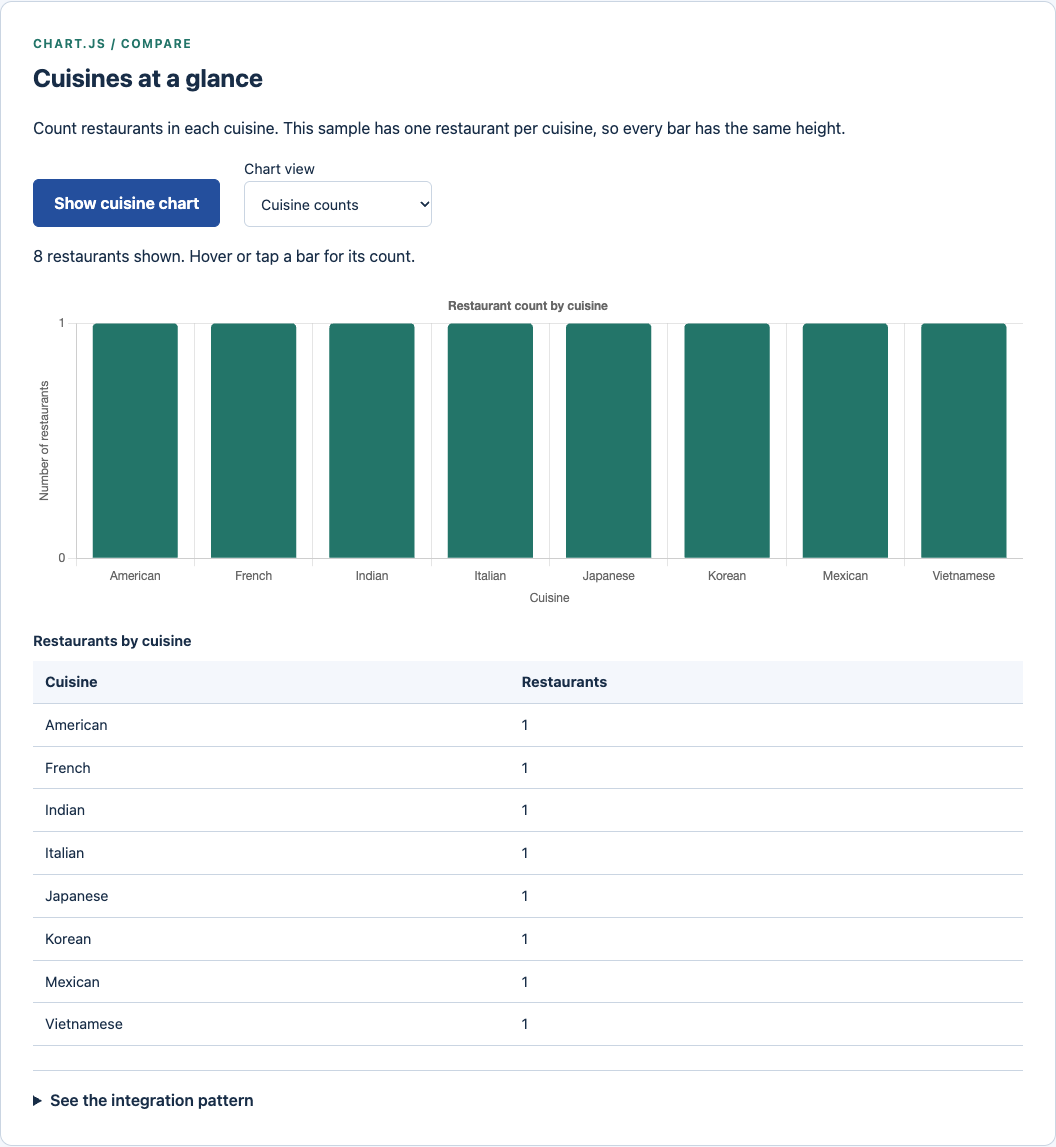
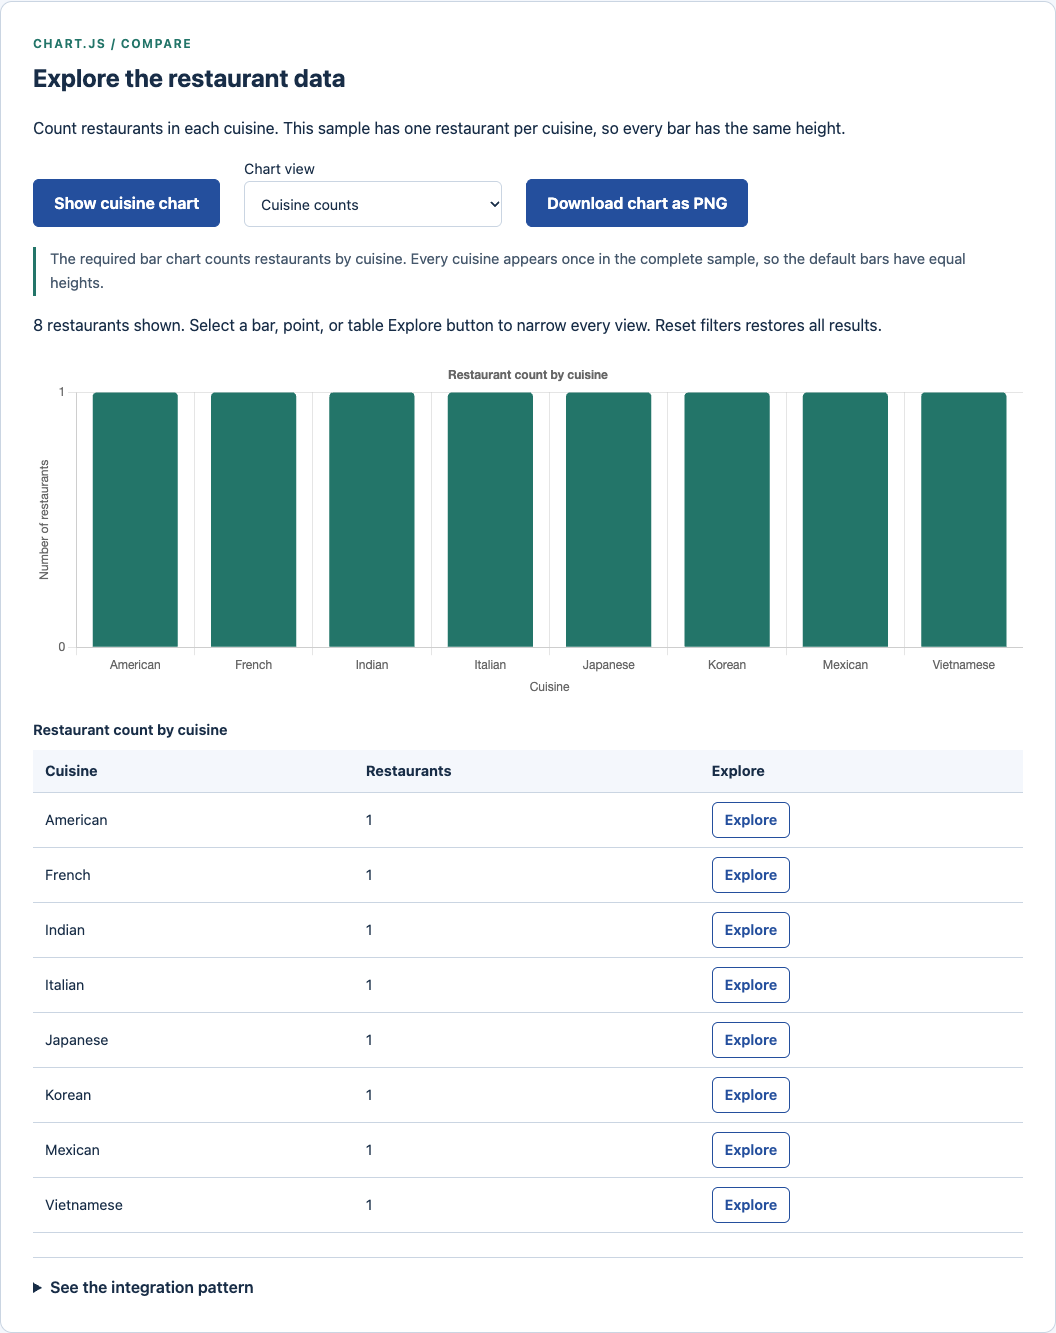
Document advanced chart views and class requirement coverage

diff --git a/README.md b/README.md
@@ -38,8 +38,9 @@ The extensions turn isolated demos into a small restaurant exploration workflow.
 | Extension | What someone can do | What the code demonstrates |
 | --- | --- | --- |
 | **Shared exploration** | Search names, cuisines, and neighborhoods; combine cuisine, price, and rating filters | One pure selection function feeds all three views instead of maintaining conflicting copies |
-| **Rating comparison** | Switch from the required cuisine counts to restaurant ratings | Numeric scales bounded at five, exact values in a table, and horizontal bars for readable names |
+| **Chart analysis** | Switch between cuisine counts, restaurant ratings, neighborhood cuisine mix, and price tiers versus ratings | Stacked datasets, scatter coordinates, precise axes, custom plugin hooks, and exact values in tables |
 | **Three choice shortlist** | Compare cuisine, rating, price, neighborhood, and hours side by side | Selection state independent of filters, a clear capacity limit, native toggle buttons, and semantic table headers |
+| **Chart exploration and image export** | Select a chart bar or point to narrow all views, or download the current chart as a PNG | Event handling, keyboard equivalent table actions, mean reference lines, canvas export, and a white image background |
 | **Direct map inspection** | Open a specific restaurant's popup from its text entry | Matching records to markers by stable IDs rather than relying on their order or screen position |
 | **Filtered downloads** | Export only matching records as JSON | Source records preserved in the export, empty result protection, and cleanup of temporary browser URLs |
 | **Empty result recovery** | Reset filters after a combination finds no matches | Clear feedback and coordinated empty states across the chart, map, cards, and download control |
@@ -51,7 +52,7 @@ The extensions turn isolated demos into a small restaurant exploration workflow.
 <details>
 <summary><strong>See the additional rating chart and mobile explorer</strong></summary>
 <br>
-<img src="docs/assets/ratings.png" alt="Horizontal rating bars for the eight sample restaurants, sorted by rating on a zero to five scale, with an exact values table." width="100%">
+<img src="docs/assets/ratings.png" alt="Horizontal rating bars for the eight sample restaurants, on a zero to five scale with a matching-sample mean reference, with an exact values table." width="100%">
 <p align="center"><img src="docs/assets/explorer-mobile.png" alt="Mobile shared search and filter form with controls stacked vertically." width="320"> <img src="docs/assets/ratings-mobile.png" alt="Mobile horizontal rating chart with readable restaurant labels and the exact values table." width="320"></p>
 </details>
 
@@ -61,9 +62,36 @@ The shortlist is temporary page state. It survives filter changes and data refre
 
 | Library | Data preparation | Working interaction | Fallback |
 | --- | --- | --- | --- |
-| **Chart.js** | Count matching records by cuisine, or use each matching restaurant’s rating | Required cuisine bar chart plus an optional horizontal rating chart; filter changes update the requested chart | Exact counts or ratings in a semantic table |
+| **Chart.js** | Aggregate cuisine and neighborhood counts, or plot the original ratings and ordered price tiers | Required cuisine bar chart plus horizontal ratings, stacked neighborhood counts, and a price-tier scatter plot; chart selections filter every view | Exact counts or ratings in a semantic table |
 | **Leaflet** | Use shared filter results; derive stable illustrative positions from the supplied neighborhoods | Markers with safe popups, shared filtering, zoom controls, and direct list actions | Filtered text list of restaurant names, cuisines, neighborhoods, and ratings |
 | **GSAP** | Create a card for each matching record, with all eight shown by default | Staggered opacity, position, and scale entrance; replay cancels the earlier animation | Static cards when GSAP fails or reduced motion is enabled |
+
+### Chart.js analysis
+
+The default remains the required **bar chart counting restaurants by cuisine**. Three additional views answer different questions using the same sample data:
+
+| View | Question | Integration details |
+| --- | --- | --- |
+| Cuisine counts | How many matching restaurants serve each cuisine? | `type: 'bar'`, categorical labels, and integer counts |
+| Restaurant ratings | How do individual sample ratings compare? | Horizontal bars, a zero to five rating scale, and a dashed matching-sample mean |
+| Cuisine mix by neighborhood | Which cuisines appear in each sample neighborhood? | One dataset per cuisine, stacked counts, and interactive legend visibility |
+| Price tier vs. rating | Where do the sample restaurants fall across price tiers and ratings? | Scatter points colored by neighborhood, named tooltips, categorical price labels, and a mean-rating reference |
+
+Select a bar or point to narrow the shared results. Each exact-value table also includes native **Explore** buttons, so this workflow does not depend on pointer interaction or a working canvas. A stacked segment selects both its neighborhood and cuisine; a neighborhood table action selects the neighborhood. After exploration, focus moves to the chart feedback. **Reset filters** restores the complete dataset.
+
+The legend changes visible chart series without changing the underlying filters or exact-value table. The reference line always represents the matching sample records. The complete sample averages **4.36 / 5**; filtering recalculates the mean. Hiding a legend series does not redefine that average.
+
+**Download chart as PNG** exports the completed current chart with a white background. It preserves current filter and legend visibility. The action stays disabled until a chart exists, for empty results, or when Chart.js fails. JSON result downloads remain a separate way to inspect the original records.
+
+Price symbols are ordered tiers, not measured dollar amounts. The scatter plot preserves exact values without jitter or a trend line. Overlapping points can be inspected through the named tooltips and exact-value table. Eight course sample records do not establish a price-quality relationship or a general neighborhood trend.
+
+<details>
+<summary><strong>See the advanced Chart.js views</strong></summary>
+<br>
+<img src="docs/assets/neighborhood-chart.png" alt="Stacked cuisine counts for four sample neighborhoods, with a cuisine legend and an exact count table." width="100%">
+<img src="docs/assets/price-chart.png" alt="Scatter plot of ordered price tiers and exact restaurant ratings, with neighborhood colors and a matching-sample mean reference." width="100%">
+<p align="center"><img src="docs/assets/neighborhood-chart-mobile.png" alt="Mobile stacked neighborhood chart with its complete legend and a horizontally scrollable exact-value table." width="320"> <img src="docs/assets/price-chart-mobile.png" alt="Mobile price-tier scatter plot and restaurant values table." width="320"></p>
+</details>
 
 <details open>
 <summary><strong>Cuisine chart</strong></summary>
@@ -136,8 +164,8 @@ BROWSER_CHANNEL=chrome npm test
 
 | Check | Local result | Scope |
 | --- | --- | --- |
-| JavaScript syntax and data checks | PASS | Repeated cuisines, total count, empty input, duplicate IDs, missing fields, invalid ratings, stable sample positions, combined filter criteria, sorting, and preservation of the original array |
-| Browser regression suite | PASS | Fifteen scenarios in installed Chrome, including all three demos, repeat actions, popups, filtering, failed requests, invalid responses, timeout, blocked scripts and tiles, initialization errors, literal text rendering, shared filters, empty results, comparison limits, exact exports, and direct map actions |
+| JavaScript syntax and data checks | PASS | Repeated cuisines, total count, empty input, duplicate IDs, missing fields, invalid ratings, stable sample positions, combined filter criteria, sorting, and preservation of the original array, stacked group totals, scatter coordinates, chart targets, and matching-sample means |
+| Browser regression suite | PASS | Twenty scenarios in installed Chrome, including all three demos, repeat actions, popups, filtering, failed requests, invalid responses, timeout, blocked scripts and tiles, initialization errors, literal text rendering, shared filters, empty results, comparison limits, exact exports, direct map actions, stacked totals, legend visibility, canvas exploration, keyboard equivalents, price-tier axes, and PNG image output |
 | Reduced motion | PASS in automated checks | Static cards and disabled Chart.js animation; this does not establish full motion accessibility |
 | Layout and keyboard | PASS in automated checks | No horizontal page overflow at 320, 390, and 1440 pixels; keyboard activation of the load button |
 | Screenshot inspection | PASS for captured states | Desktop and mobile explorer, comparison, chart, map, and card screenshots are actual browser captures |
@@ -155,7 +183,7 @@ The suite starts and stops its own server on port 8768. Real CDN availability re
 | **Leaflet** | Verified locations and spatial relationships affect a decision | Interactive geographic display and filtering | Coordinates, tile availability, attribution, and map accessibility require extra work |
 | **GSAP** | A coordinated transition explains a state change that CSS cannot easily support | Timing, stagger, easing, and animation control | Motion must stay optional; the library should solve a real interaction need |
 
-**For this dataset, Chart.js is the strongest starting point.** Cuisine and rating already exist, while a reliable Leaflet implementation would first need verified coordinates. The added rating chart compares individual restaurants on the same zero to five scale. The result summary also reports the average of matching records. With only one record per cuisine, category averages would still represent individual sample restaurants, not a broader market trend.
+**For this dataset, Chart.js is the strongest starting point.** Cuisine and rating already exist, while a reliable Leaflet implementation would first need verified coordinates. The added rating chart compares individual restaurants on the same zero to five scale. Neighborhood stacks count sample records, and the scatter plot compares ordered price tiers with ratings without fitting a trend. The result summary also reports the average of matching records. With only one record per cuisine, category averages would still represent individual sample restaurants, not a broader market trend.
 
 The final Project 2 choice should depend on Assignment 2's actual dataset and user task. This tutorial does not modify that separate assignment. Before choosing, identify the question the library answers, check the required data, build a small prototype, and test a failed library load. Use CSS for simple transitions before adding GSAP.
 
@@ -179,6 +207,7 @@ externalLibraries/
 │   ├── script.js              # shared exploration, comparison, and library views
 │   ├── tutorial-support.js    # loading, status checks, and safe cards
 │   ├── data.js                # validation, filtering, counts, sample positions
+│   ├── chart-data.js          # chart datasets, tables, and exploration targets
 │   ├── restaurants.json       # unchanged course dataset
 │   ├── instructions.md        # supplied assignment reference
 │   └── answer/script.js       # supplied reference, not an application import
@@ -190,7 +219,7 @@ externalLibraries/
 
 ## Sources
 
-The restaurant data, original scaffold, instructions, and provided answer come from the course's `tutorial_7_external` support files. The implementation follows the official [Chart.js getting started guide](https://www.chartjs.org/docs/latest/getting-started/), [Leaflet quick start](https://leafletjs.com/examples/quick-start/), and [GSAP getting started guide](https://gsap.com/resources/get-started/). The assignment also references [MDN's third party APIs overview](https://developer.mozilla.org/en-US/docs/Learn_web_development/Extensions/Client-side_APIs/Third_party_APIs).
+The restaurant data, original scaffold, instructions, and provided answer come from the course's `tutorial_7_external` support files. The implementation follows the official [Chart.js getting started guide](https://www.chartjs.org/docs/latest/getting-started/), [Leaflet quick start](https://leafletjs.com/examples/quick-start/), [Chart.js plugin documentation](https://www.chartjs.org/docs/latest/developers/plugins.html), [Chart.js API reference](https://www.chartjs.org/docs/latest/developers/api.html), and [GSAP getting started guide](https://gsap.com/resources/get-started/). The assignment also references [MDN's third party APIs overview](https://developer.mozilla.org/en-US/docs/Learn_web_development/Extensions/Client-side_APIs/Third_party_APIs).
 
 Library versions match the provided starter's examples. Chart.js and Leaflet use permissive open source licenses; GSAP has its own [standard license](https://gsap.com/community/standard-license/). Course materials and third party libraries retain their respective rights. Map attribution stays visible in the interface.
 
